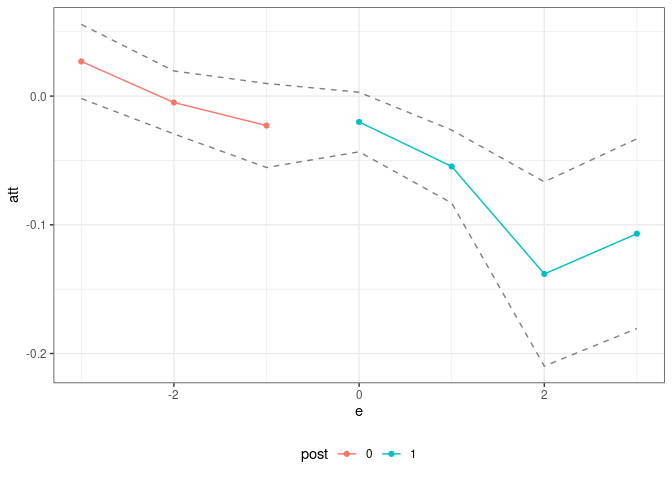
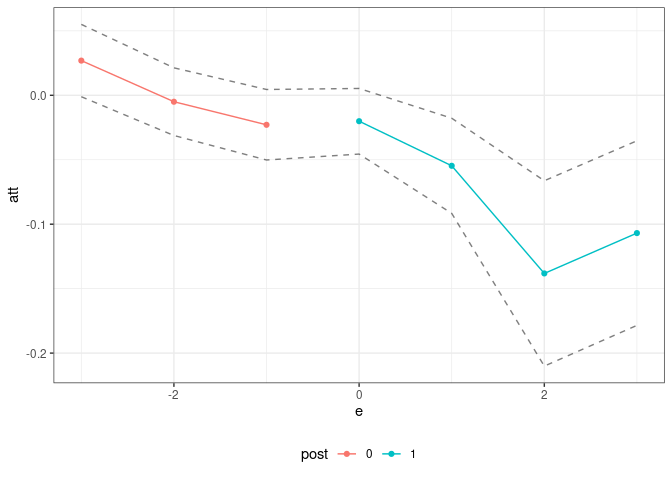
added code for allowing setup_pte function to vary across applications

diff --git a/README.md b/README.md
@@ -78,30 +78,27 @@ did_res <- pte(yname="lemp",
                tname="year",
                idname="countyreal",
                data=mpdta,
+               setup_pte_fun=setup_pte,
                subset_fun=two_by_two_subset,
                attgt_fun=did_attgt,
                xformla=~lpop) 
-#> Warning in compute.aggte(MP = MP, type = type, balance_e = balance_e, min_e
-#> = min_e, : Simultaneous conf. band is somehow smaller than pointwise one
-#> using normal approximation. Since this is unusual, we are reporting pointwise
-#> confidence intervals
 
 summary(did_res)
 #> 
 #> Overall ATT:  
 #>      ATT    Std. Error     [ 95%  Conf. Int.]  
-#>  -0.0323        0.0136    -0.0589     -0.0056 *
+#>  -0.0323        0.0101     -0.052     -0.0126 *
 #> 
 #> 
 #> Dynamic Effects:
 #>  Event Time Estimate Std. Error   [95%  Conf. Band]  
-#>          -3   0.0269     0.0115 -0.0015      0.0554  
-#>          -2  -0.0050     0.0109 -0.0317      0.0218  
-#>          -1  -0.0229     0.0155 -0.0611      0.0154  
-#>           0  -0.0201     0.0119 -0.0496      0.0093  
-#>           1  -0.0547     0.0162 -0.0946     -0.0148 *
-#>           2  -0.1382     0.0343 -0.2228     -0.0536 *
-#>           3  -0.1069     0.0323 -0.1865     -0.0273 *
+#>          -3   0.0269     0.0147 -0.0105      0.0644  
+#>          -2  -0.0050     0.0131 -0.0383      0.0284  
+#>          -1  -0.0229     0.0143 -0.0594      0.0137  
+#>           0  -0.0201     0.0088 -0.0427      0.0024  
+#>           1  -0.0547     0.0182 -0.1012     -0.0082 *
+#>           2  -0.1382     0.0373 -0.2335     -0.0429 *
+#>           3  -0.1069     0.0412 -0.2121     -0.0017 *
 #> ---
 #> Signif. codes: `*' confidence band does not cover 0
 ggpte(did_res)
@@ -142,53 +139,58 @@ covid_res <- pte(yname="positive",
                  tname="time.period",
                  idname="state_id",
                  data=covid_data2,
+                 setup_pte_fun=setup_pte,
                  subset_fun=two_by_two_subset,
                  attgt_fun=covid_attgt,
                  xformla=xformla,
                  max_e=21,
                  min_e=-10) 
+#> Warning in compute.aggte(MP = MP, type = type, balance_e = balance_e, min_e
+#> = min_e, : Simultaneous conf. band is somehow smaller than pointwise one
+#> using normal approximation. Since this is unusual, we are reporting pointwise
+#> confidence intervals
 
 summary(covid_res)
 #> 
 #> Overall ATT:  
 #>      ATT    Std. Error     [ 95%  Conf. Int.] 
-#>  14.8882        77.625   -137.254    167.0303 
+#>  14.8882      100.3851   -181.863    211.6393 
 #> 
 #> 
 #> Dynamic Effects:
 #>  Event Time Estimate Std. Error     [95%  Conf. Band] 
-#>         -10  -3.7266     3.1514  -11.7673      4.3141 
-#>          -9   2.6607     1.3939   -0.8958      6.2171 
-#>          -8   0.8290     2.3131   -5.0726      6.7306 
-#>          -7   5.2843     2.7465   -1.7232     12.2919 
-#>          -6   2.8555     1.9551   -2.1328      7.8438 
-#>          -5   1.3589     4.2282   -9.4291     12.1469 
-#>          -4   0.3294     3.7990   -9.3634     10.0222 
-#>          -3  -4.2227     6.1901  -20.0164     11.5711 
-#>          -2  -3.8447     2.6841  -10.6930      3.0035 
-#>          -1  -0.2234     3.4084   -8.9198      8.4730 
-#>           0 -10.8156     9.5554  -35.1956     13.5644 
-#>           1 -13.7998    16.5274  -55.9684     28.3688 
-#>           2  -7.8432    11.0211  -35.9626     20.2763 
-#>           3  -4.5541    12.1361  -35.5186     26.4103 
-#>           4  -3.5368    13.2898  -37.4447     30.3710 
-#>           5   8.5221    13.2492  -25.2823     42.3266 
-#>           6   1.1140    16.4968  -40.9763     43.2043 
-#>           7   6.6384    21.6967  -48.7192     61.9961 
-#>           8   7.1288    27.8903  -64.0314     78.2890 
-#>           9  10.8758    32.4714  -71.9727     93.7244 
-#>          10  17.5057    36.4513  -75.4971    110.5085 
-#>          11  40.8318    41.5868  -65.2740    146.9375 
-#>          12  48.6134    59.0086 -101.9429    199.1696 
-#>          13  52.4228    67.8219 -120.6198    225.4654 
-#>          14  50.2000    51.4692  -81.1198    181.5199 
-#>          15  68.2960    79.7460 -135.1703    271.7623 
-#>          16  44.7305    84.5580 -171.0131    260.4742 
-#>          17  61.4670    86.2579 -158.6138    281.5477 
-#>          18  50.4635    93.7979 -188.8552    289.7822 
-#>          19  47.3392   114.3480 -244.4116    339.0900 
-#>          20  28.6326   128.1748 -298.3962    355.6615 
-#>          21   4.3445   110.3306 -277.1561    285.8451 
+#>         -10  -3.7266     3.5748  -13.1626      5.7093 
+#>          -9   2.6607     1.2414   -0.6162      5.9375 
+#>          -8   0.8290     1.8916   -4.1639      5.8219 
+#>          -7   5.2843     2.3999   -1.0503     11.6190 
+#>          -6   2.8555     1.3051   -0.5895      6.3005 
+#>          -5   1.3589     3.5285   -7.9548     10.6726 
+#>          -4   0.3294     4.1550  -10.6379     11.2966 
+#>          -3  -4.2227     4.8362  -16.9882      8.5429 
+#>          -2  -3.8447     2.6832  -10.9271      3.2376 
+#>          -1  -0.2234     3.3093   -8.9586      8.5118 
+#>           0 -10.8156     7.8844  -31.6269      9.9956 
+#>           1 -13.7998    11.9935  -45.4573     17.8577 
+#>           2  -7.8432     9.8990  -33.9722     18.2859 
+#>           3  -4.5541    10.8512  -33.1964     24.0881 
+#>           4  -3.5368    10.8932  -32.2901     25.2164 
+#>           5   8.5221    10.6931  -19.7031     36.7473 
+#>           6   1.1140    20.8776  -53.9937     56.2216 
+#>           7   6.6384    24.0598  -56.8687     70.1456 
+#>           8   7.1288    27.7870  -66.2168     80.4743 
+#>           9  10.8758    28.6149  -64.6550     86.4066 
+#>          10  17.5057    34.2001  -72.7676    107.7790 
+#>          11  40.8318    40.4794  -66.0161    147.6797 
+#>          12  48.6134    49.3890  -81.7519    178.9787 
+#>          13  52.4228    56.0141  -95.4297    200.2753 
+#>          14  50.2000    53.3274  -90.5608    190.9609 
+#>          15  68.2960    56.3082  -80.3329    216.9249 
+#>          16  44.7305    53.2602  -95.8530    185.3140 
+#>          17  61.4670    89.2068 -173.9997    296.9336 
+#>          18  50.4635   111.7107 -244.4035    345.3305 
+#>          19  47.3392   109.7565 -242.3697    337.0480 
+#>          20  28.6326   115.2639 -275.6134    332.8786 
+#>          21   4.3445   172.8947 -452.0213    460.7104 
 #> ---
 #> Signif. codes: `*' confidence band does not cover 0
 ggpte(covid_res) + ylim(c(-1000,1000))
@@ -243,6 +245,7 @@ did_res_noif <- pte(yname="lemp",
                     tname="year",
                     idname="countyreal",
                     data=mpdta,
+                    setup_pte_fun=setup_pte,
                     subset_fun=two_by_two_subset,
                     attgt_fun=did_attgt_noif, #this is only diff.
                     xformla=~lpop) 
@@ -251,22 +254,24 @@ summary(did_res_noif)
 #> 
 #> Overall ATT:  
 #>      ATT    Std. Error     [ 95%  Conf. Int.]  
-#>  -0.0323        0.0118    -0.0554     -0.0092 *
+#>  -0.0323        0.0135    -0.0587     -0.0058 *
 #> 
 #> 
 #> Dynamic Effects:
 #>  Event Time Estimate Std. Error [95% Pointwise  Conf. Band]  
-#>          -3   0.0269     0.0147         -0.0019      0.0557  
-#>          -2  -0.0050     0.0125         -0.0294      0.0195  
-#>          -1  -0.0229     0.0166         -0.0555      0.0098  
-#>           0  -0.0201     0.0118         -0.0433      0.0030  
-#>           1  -0.0547     0.0145         -0.0831     -0.0264 *
-#>           2  -0.1382     0.0365         -0.2098     -0.0666 *
-#>           3  -0.1069     0.0376         -0.1806     -0.0332 *
+#>          -3   0.0269     0.0143         -0.0011      0.0550  
+#>          -2  -0.0050     0.0134         -0.0312      0.0213  
+#>          -1  -0.0229     0.0140         -0.0502      0.0045  
+#>           0  -0.0201     0.0130         -0.0456      0.0053  
+#>           1  -0.0547     0.0188         -0.0916     -0.0178 *
+#>           2  -0.1382     0.0367         -0.2101     -0.0663 *
+#>           3  -0.1069     0.0366         -0.1785     -0.0353 *
 #> ---
 #> Signif. codes: `*' confidence band does not cover 0
 ggpte(did_res_noif)
 ```
 
-![](man/figures/README-unnamed-chunk-8-1.png)<!-- --> What’s exciting
-about this is just how little new code needs to be written.
+![](man/figures/README-unnamed-chunk-8-1.png)<!-- -->
+
+What’s exciting about this is just how little new code needs to be
+written.
